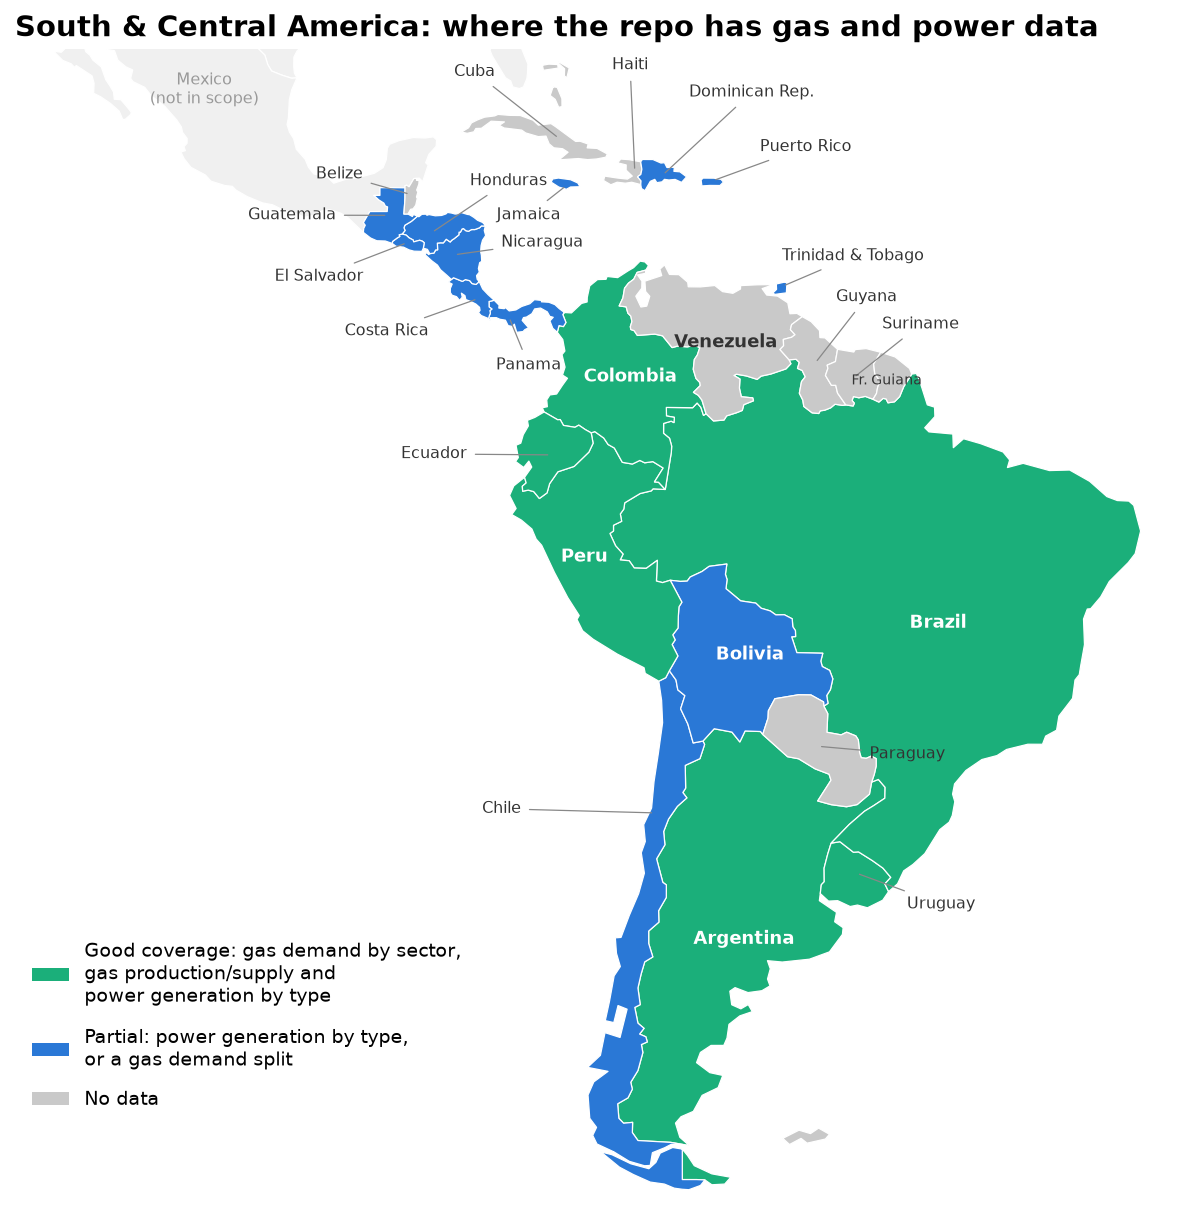
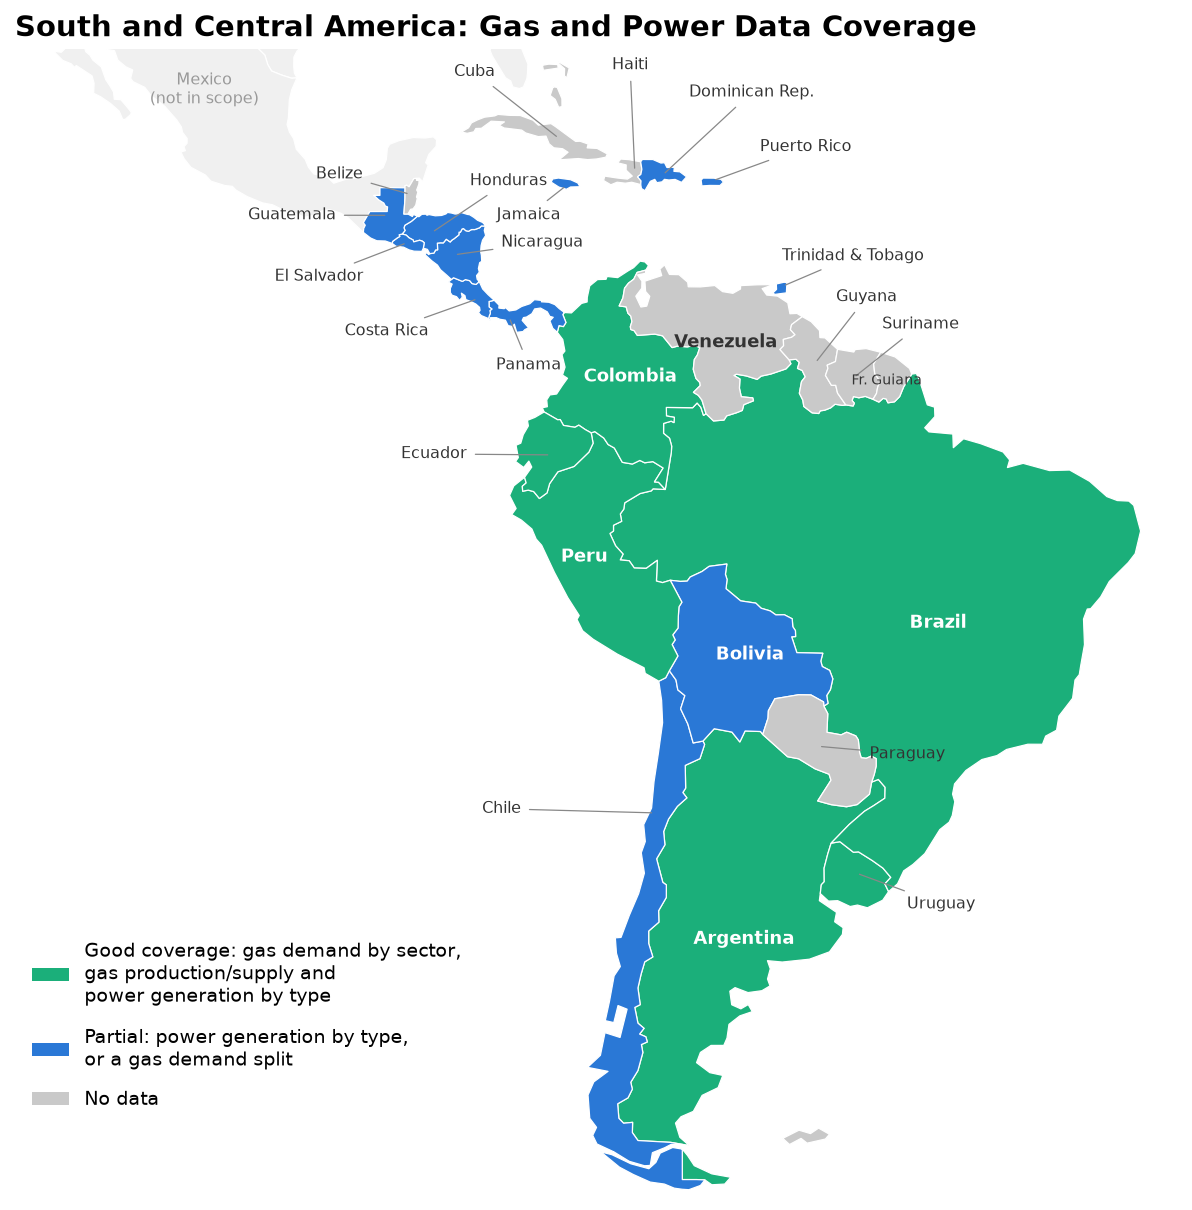
Coverage map title: South and Central America: Gas and Power Data Coverage
Claude-Session: https://claude.ai/code/session_01UhawKYpi1n6Y1dyxkRBGxu

Changed region(s): [[0.0931, 0.0, 0.9312, 0.0306]]

diff --git a/south_america/COVERAGE_MAP.py b/south_america/COVERAGE_MAP.py
@@ -111,7 +111,7 @@ def main():
                Patch(facecolor=GREY, label="No data")]
     ax.legend(handles=handles, loc="lower left", frameon=False, fontsize=9, bbox_to_anchor=(0.0, 0.06),
               labelspacing=1.0)
-    ax.set_title("South & Central America: where the repo has gas and power data", fontsize=14,
+    ax.set_title("South and Central America: Gas and Power Data Coverage", fontsize=14,
                  fontweight="bold", loc="left")
 
     os.makedirs(os.path.dirname(os.path.abspath(args.out)), exist_ok=True)
